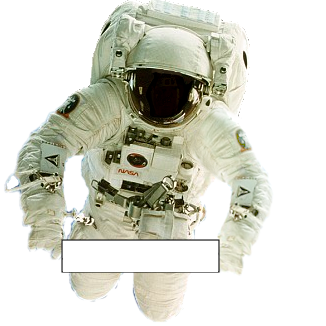
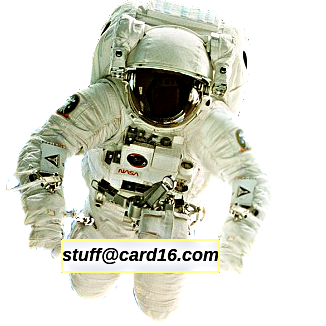
changed astronaut to a map and added contact page link to map

diff --git a/css/veggies-2-3.css b/css/veggies-2-3.css
@@ -7,7 +7,7 @@
       }
 
 html{   /* in the case user has no javascript  */
-    background-image: url("bg_images/bg25.jpg");
+    background-image: url("../bg_images/bg25.jpg");
       }
 
   body, html {
@@ -94,19 +94,41 @@ footer  { /* position spaceship icon for contact info  */
     position: fixed;
     top: 25%;
     left: 30%;
-    width: 33%;
-    display: none;  /* Hide until spaceship icon clicked */
+    /*width: 33%;*/
+    visibility: hidden;
         }
 
-/*#astronaut:hover  { /* increase size for emphasis on hover*/
-    width: 35%;
-        }*/
+        /*map  {
+            position: fixed;
+            top: 25%;
+            left: 30%;
+            width: 33%;
+            display: none;
+                }*/
+
 
 .clearfix::after  {
       content: "";
       display: table;
       clear: both;
        }
+
+/*  this section for contact.html *********/
+
+form {
+  display: block;
+  margin: 30% auto;;
+  width: 70vw;
+  /*font-size: 2rem;*/
+  color: #000;
+  background-color: #f5f5f5;
+}
+
+input, textarea   {
+  width: 50vw;
+  display: block;
+
+}
 
 /************   Media  selectors  ******************/
 
@@ -115,7 +137,7 @@ footer  { /* position spaceship icon for contact info  */
       {
 
 header  {
-/* for smaller devces we want the extra real estate for the background and content*/
+/* for smaller devices we want the extra real estate for the background and content*/
       background-color: transparent;
         }
 
@@ -139,7 +161,7 @@ header  {
          }
 
 #spaceship {  /* reveals astronaut with contact info */
-     width: 4rem; /*needs enlargement for touch */
+     width: 6rem; /*needs enlargement for touch */
         }
 
 }      /* End of media query */

diff --git a/contact.html b/contact.html
@@ -1,0 +1,59 @@
+<!DOCTYPE html> <!--  doctype dedclaration goes first !!! -->
+
+<html>
+<head>
+  <link rel="stylesheet" href="css/normalize.css"> <!--  From MIT ver 4.1.1  -->
+  <link rel="stylesheet" href="css/veggies-2-3.css"> <!--  custom for this page  -->
+  <meta name="viewport" content="width=device-width, initial-scale=1.0"> <!-- Set the viewport width to device width for mobile -->
+  <meta charset="utf-8">
+  <link rel="icon" type="image/png" href="images/bolt3.png"> <!-- favicon -->
+  <link href="https://fonts.googleapis.com/css?family=Roboto+Slab:700|Roboto:300,300i,700,700i" rel="stylesheet">
+  <title> Lost In Space Veggies!</title>
+</head>
+
+<body>
+
+<header>
+  <img src="images/lost-in-space-veggies.png" id="lostinspace">
+</header>
+
+
+
+<div id="main_container"> <!--  page content  -->
+
+<section>
+
+  <form action="index.html" method="post">
+    <fieldset><legend>Contact us</legend>
+
+    <label class="label" for="email">Email: </label>
+    <input type="email" id="user_email" name="user_email">
+
+    <label class="label" for="name">Name: </label>
+    <input type="text" id="name" name="user_name">
+
+
+    <label class="label" for="comment">Your comment: </label>
+    <textarea id="comment" name="comment" rows="5" cols="50"></textarea>
+    <p> <button class="button" type="reset">Clear form</button></p>
+    <p> <button class="button" type="submit">Send Comment and return to main page</button></p>
+
+    <!--  note: try type="button"??? -->
+  </fieldset>
+
+  </form>
+
+
+</section>
+
+
+
+
+
+<footer>
+
+</footer>
+
+</div>
+</body>
+</html>

diff --git a/test.html b/test.html
@@ -1,0 +1,50 @@
+<!DOCTYPE html> <!--  doctype dedclaration goes first !!! -->
+
+<html>
+<head>
+  <link rel="stylesheet" href="css/normalize.css"> <!--  From MIT ver 4.1.1  -->
+  <link rel="stylesheet" href="css/veggies-2-3.css"> <!--  custom for this page  -->
+  <meta name="viewport" content="width=device-width, initial-scale=1.0"> <!-- Set the viewport width to device width for mobile -->
+  <meta charset="utf-8">
+  <link rel="icon" type="image/png" href="images/bolt3.png"> <!-- favicon -->
+  <link href="https://fonts.googleapis.com/css?family=Roboto+Slab:700|Roboto:300,300i,700,700i" rel="stylesheet">
+  <title> Lost In Space Veggies!</title>
+</head>
+
+<body>
+
+<header>
+  <img src="images/lost-in-space-veggies.png" id="lostinspace">
+</header>
+
+
+
+<div id="main_container"> <!--  page content  -->
+
+<section>
+
+  <form action="index.html" method="post">
+    <fieldset><legend>Contact us</legend>
+    <label class="label" for="email"></label>
+    <input class="input" type="text" id="email_address" name="email_address" value="Your email address">
+
+
+    <p> <button class="button" type="submit">Send Comment</button>
+  </fieldset>
+
+  </form>
+
+
+</section>
+
+
+
+
+
+<footer>
+
+</footer>
+
+</div>
+</body>
+</html>

diff --git a/index.html b/index.html
@@ -68,12 +68,16 @@
 
 </div> <!-- second col -->
 
-<!-- hide astronaut email contact image when clicked -->
-<img src="images/astronaut.png" id="astronaut" onclick='document.getElementById("astronaut").style.display = "none"'>
+<!--Present clickable image with email that leads to contact form   -->
+<map name="primary">
+  <area shape="rect" coords="61,241,219,273" href="contact.html">
+
+</map>
+<img usemap="#primary"  id="astronaut" src="images/astronaut2.png" onclick='document.getElementById("astronaut").style.visibility = "hidden"'>
 
 <footer>
   <!-- reveal astronaut when spaceship is clicked -->
-<img src="images/spaceship.png" id="spaceship" onclick='document.getElementById("astronaut").style.display = "block"'>
+<img src="images/spaceship.png" id="spaceship" onclick='document.getElementById("astronaut").style.visibility = "visible"'>
 </footer>
 
  </div> <!-- main div -->
